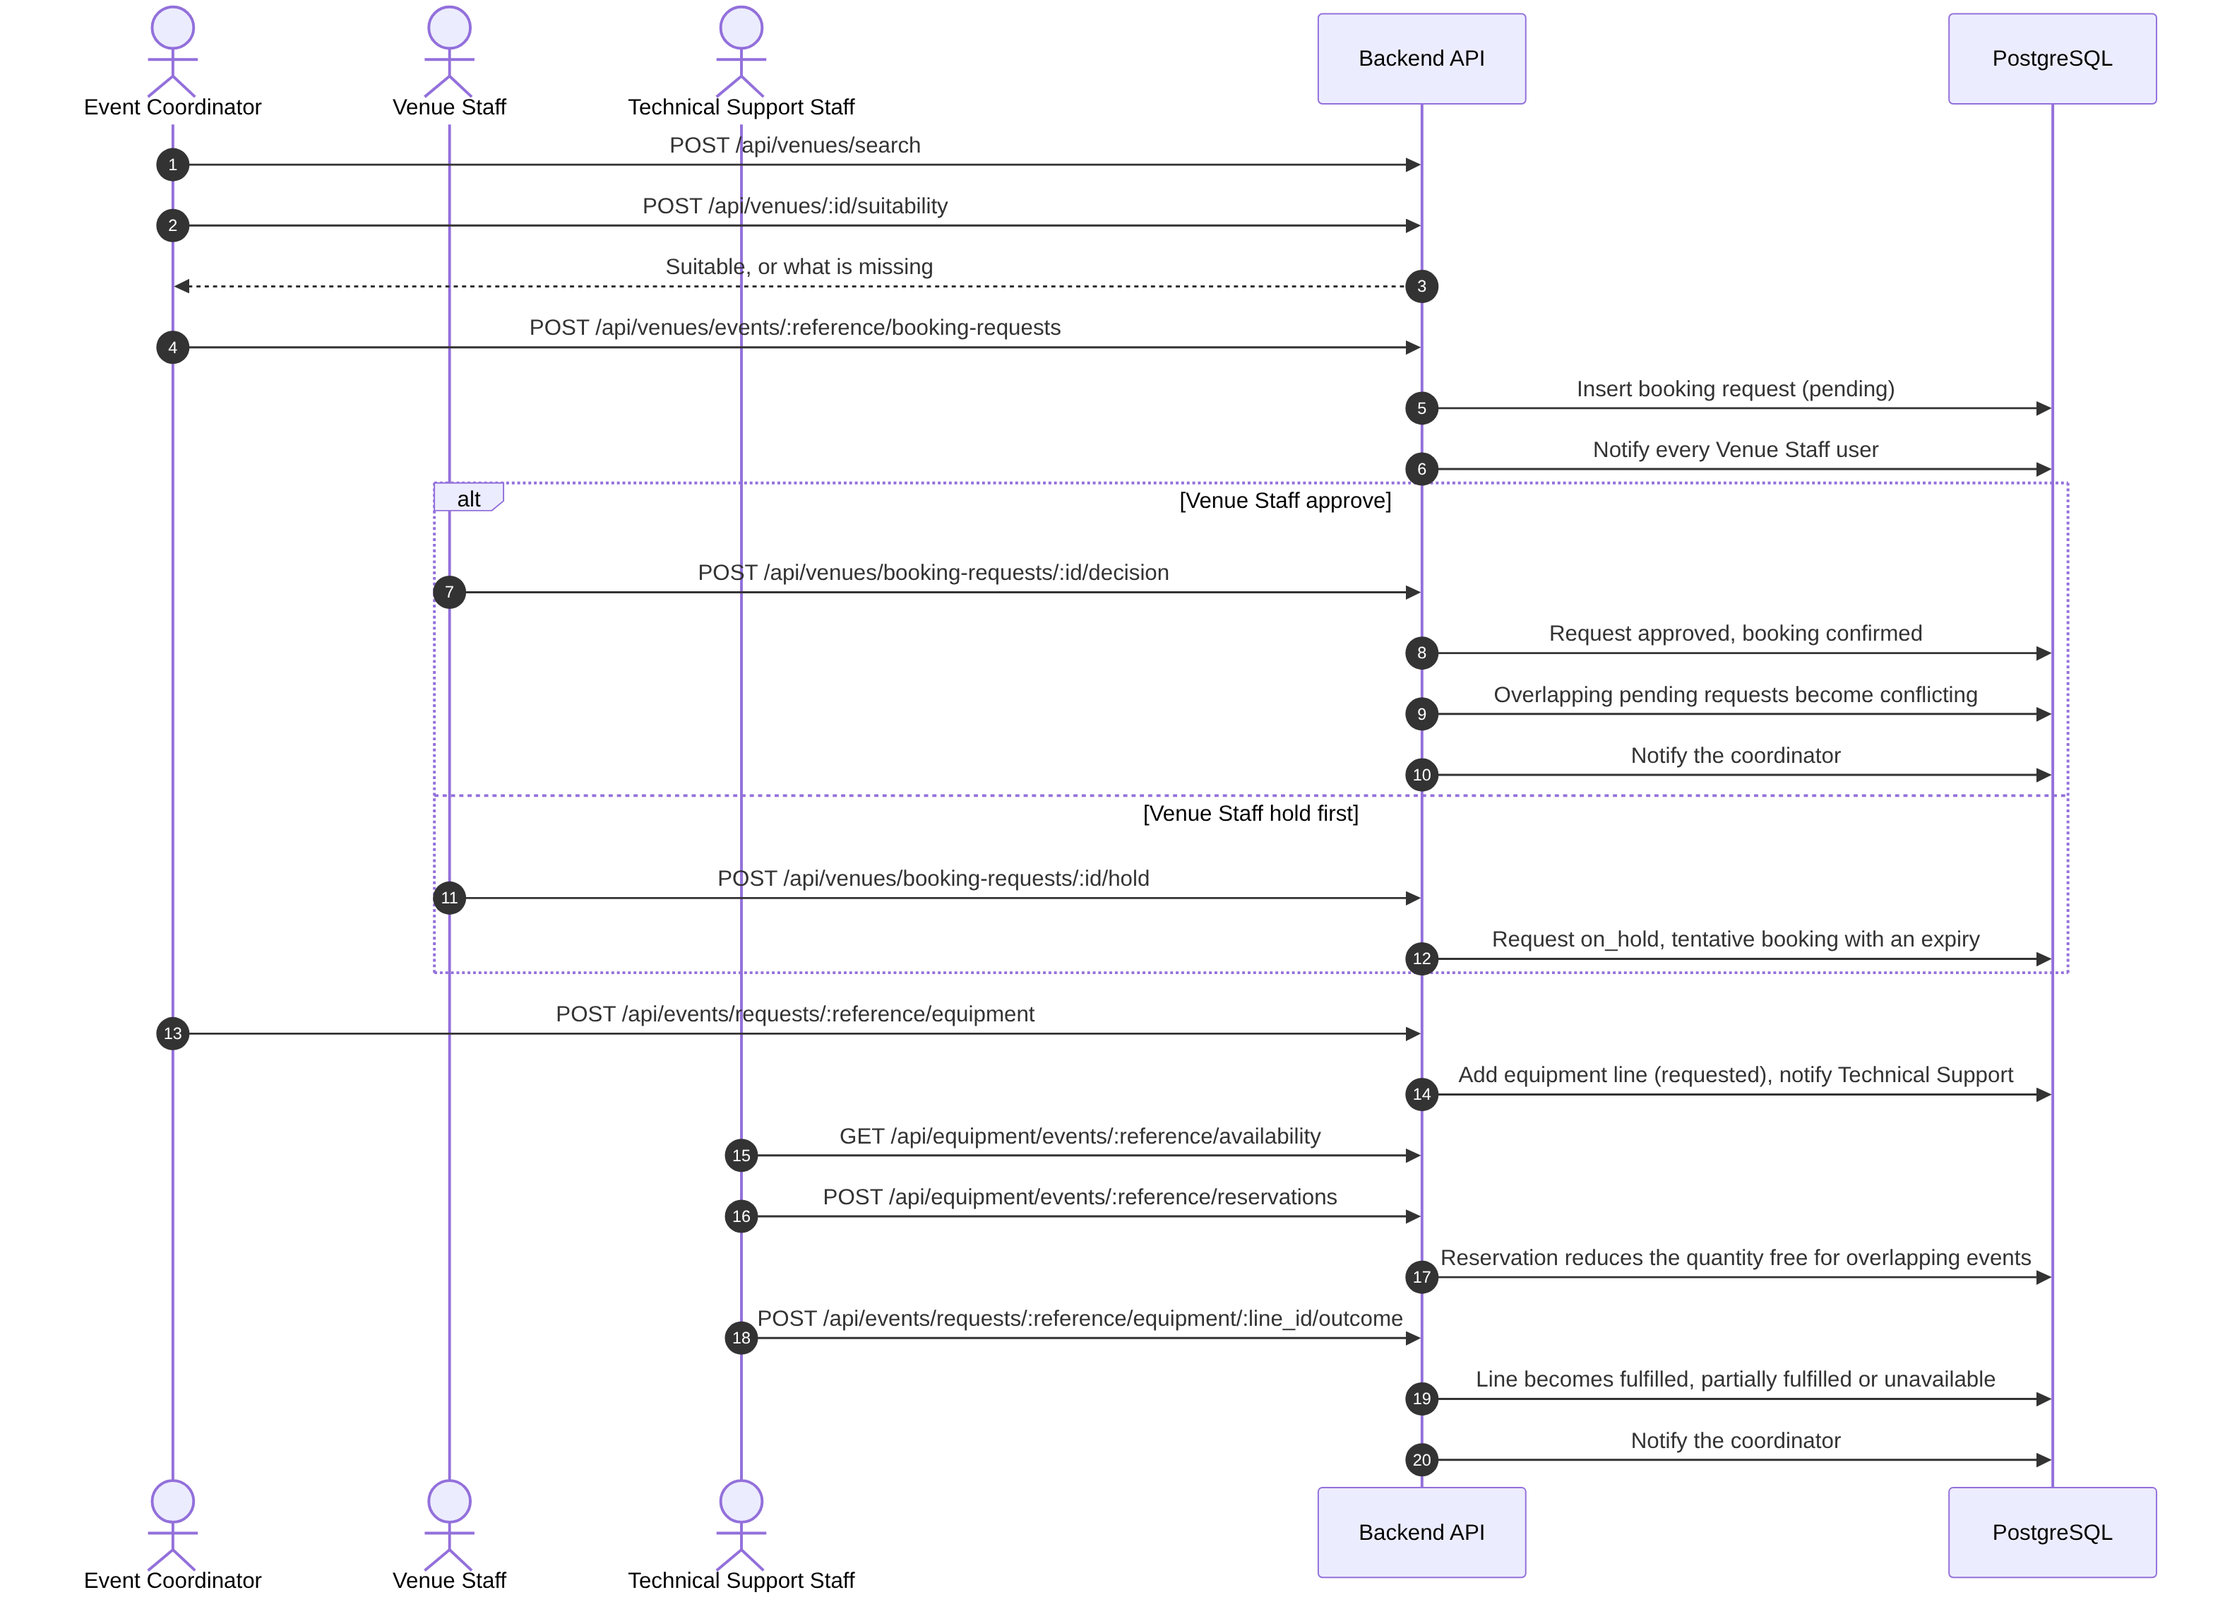
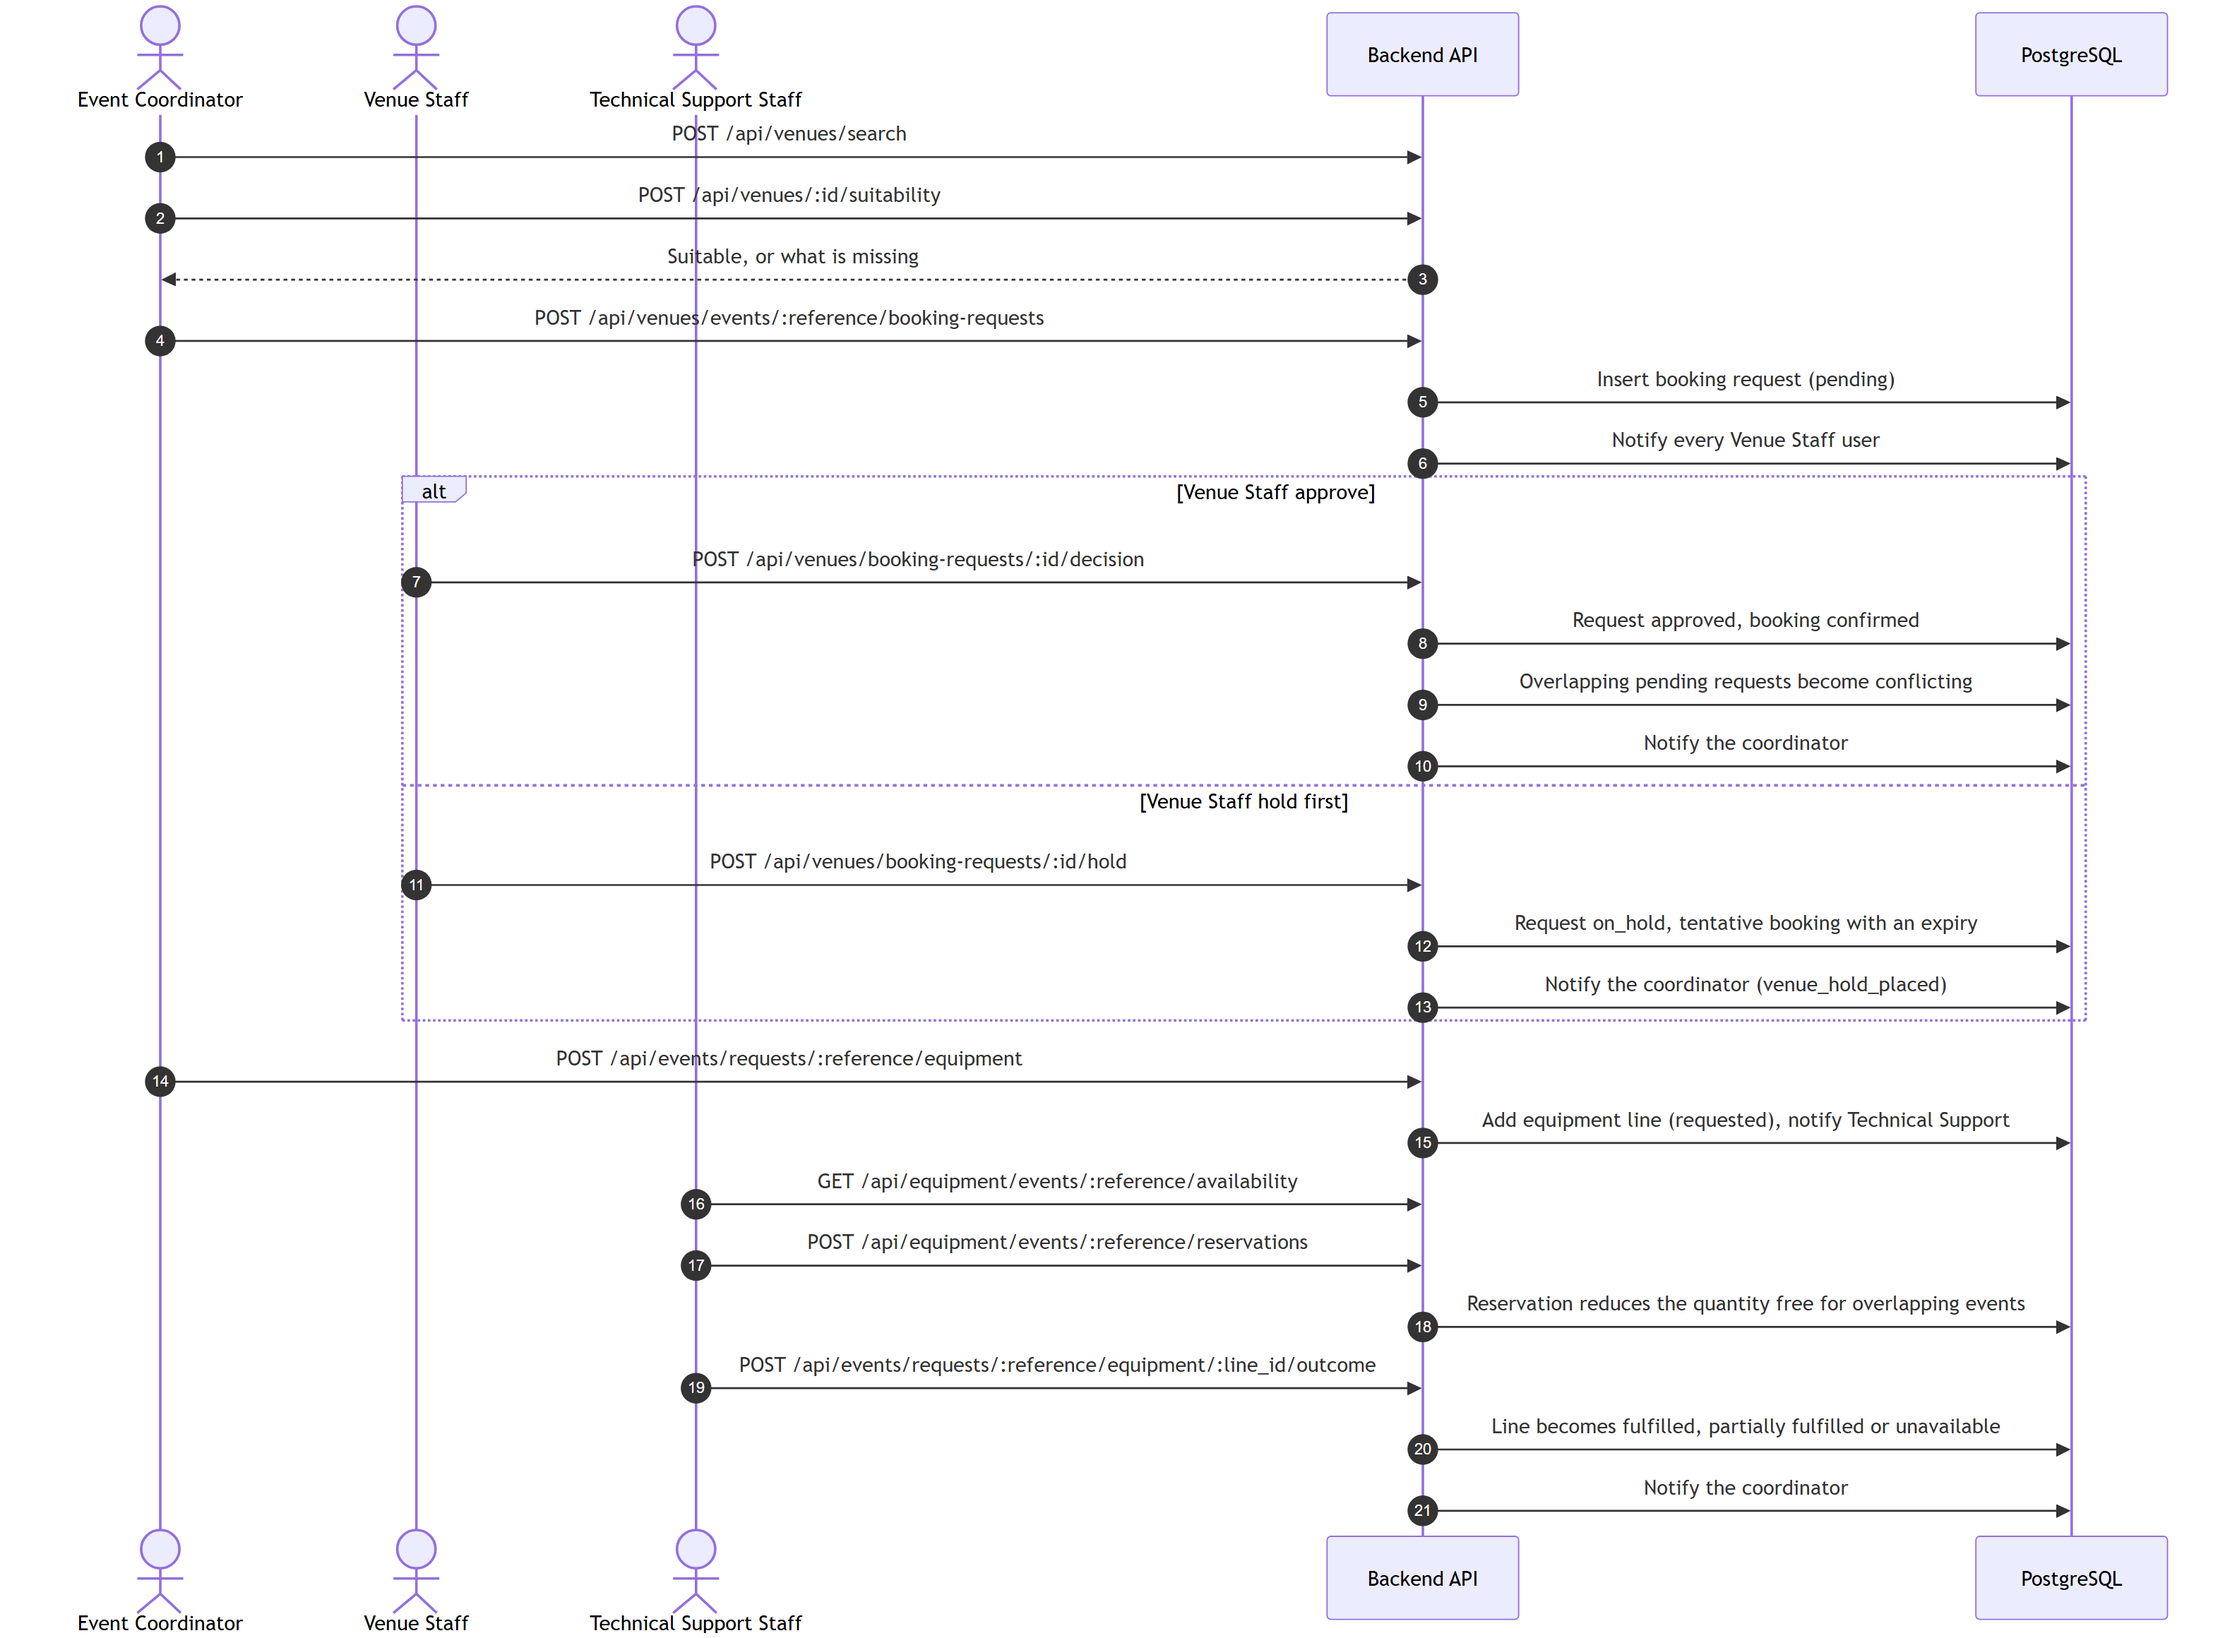
docs(SCRUM-78): match two sequence diagram steps to what the services save
- Submitting a request writes no history entry: submit_event_request saves
  the request as submitted with no coordinator (_mark_submitted), and the
  first entry is coordinator_assigned when the Lead assigns it (SCRUM-95,
  ADR-0036). EventHistoryKind has no submission kind.
- Placing a hold tells the coordinator, with the expiry
  (place_booking_hold, venue_hold_placed), as the approval branch already
  shows for an approval.

PNGs re-rendered from the Mermaid sources.

diff --git a/docs/architecture/07-uml-sequence-diagrams.md b/docs/architecture/07-uml-sequence-diagrams.md
@@ -17,7 +17,7 @@ sequenceDiagram
 
   Org->>Web: Fill in the request
   Web->>API: POST /api/events/requests
-  API->>DB: Insert event request (submitted) and history entry
+  API->>DB: Insert event request (submitted, no coordinator yet)
   API->>DB: Notify every Lead (request_queued_for_lead)
   API-->>Web: 201 reference
 
@@ -71,6 +71,7 @@ sequenceDiagram
   else Venue Staff hold first
     VS->>API: POST /api/venues/booking-requests/:id/hold
     API->>DB: Request on_hold, tentative booking with an expiry
+    API->>DB: Notify the coordinator (venue_hold_placed)
   end
 
   Coord->>API: POST /api/events/requests/:reference/equipment
